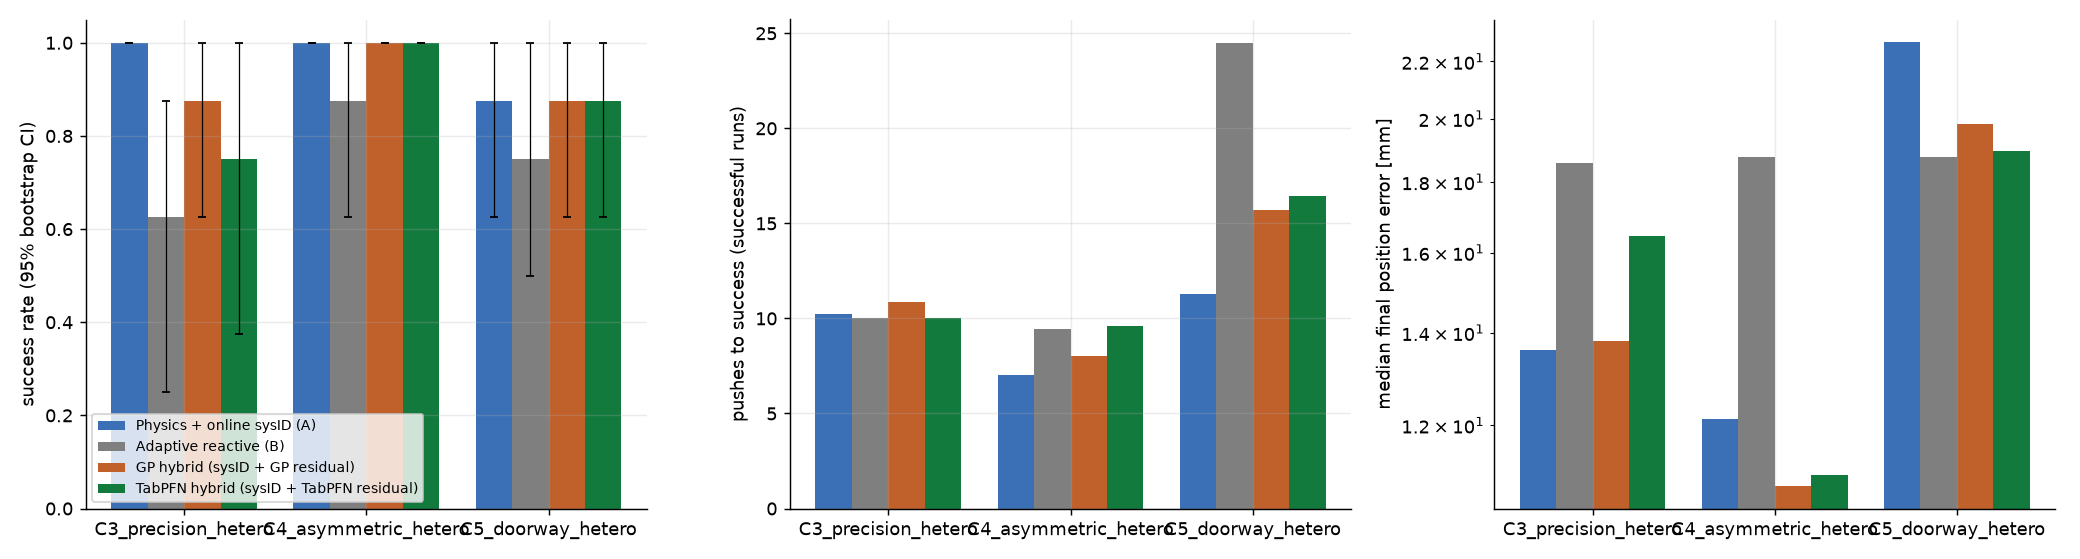
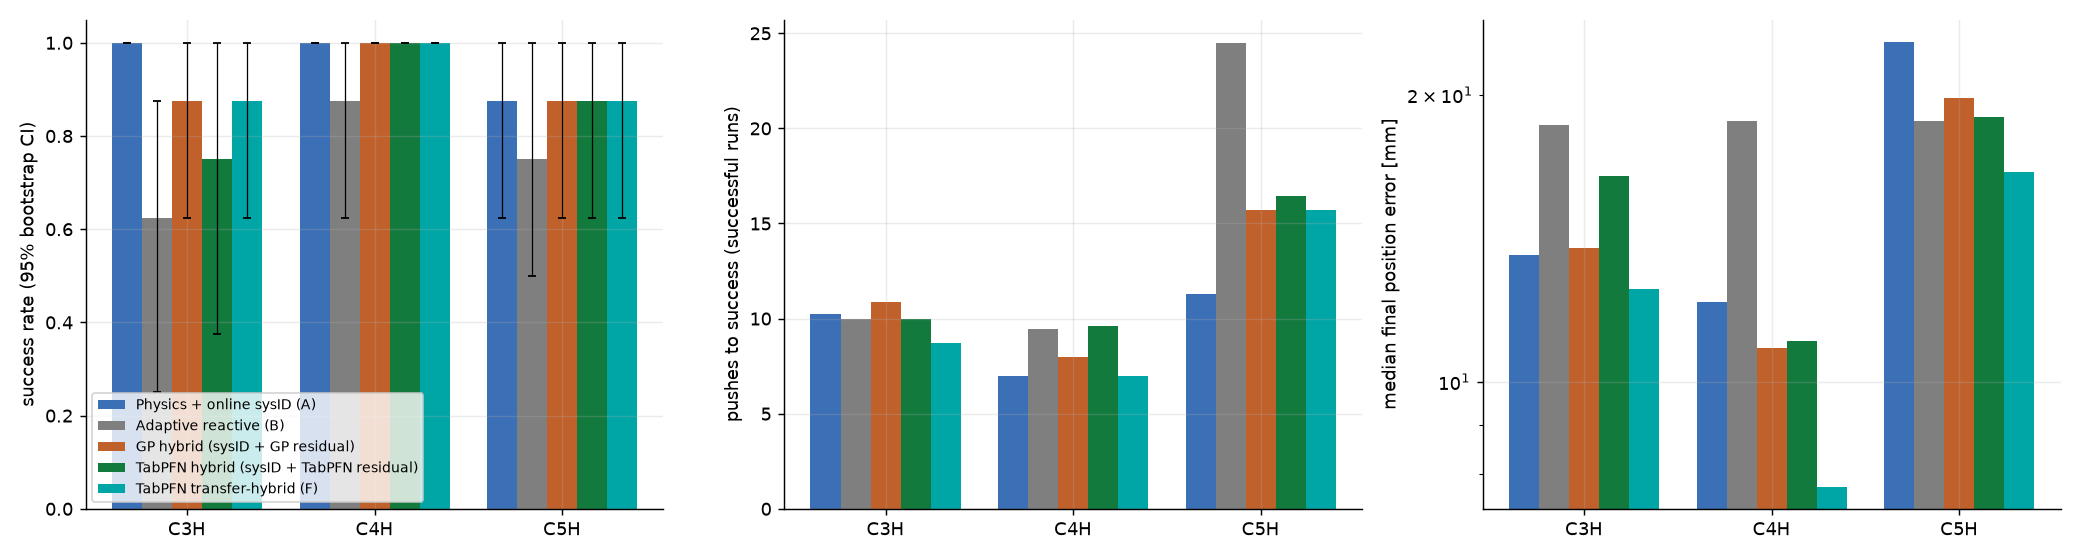
Closed-loop transfer results, figures

diff --git a/experiments/make_figures.py b/experiments/make_figures.py
@@ -137,7 +137,7 @@ def manip_figure(csv, out):
     for ax, lab in zip(axes, ["success rate (95% bootstrap CI)", "pushes to success (successful runs)",
                               "median final position error [mm]"]):
         ax.set_xticks(np.arange(len(chs)) + 0.4 - w / 2)
-        ax.set_xticklabels(chs)
+        ax.set_xticklabels([c.replace("_hetero", "H").split("_")[0] + ("H" if "hetero" in c else "") if False else c.split("_")[0] + ("H" if "hetero" in c else "") for c in chs])
         ax.set_ylabel(lab)
     axes[2].set_yscale("log")
     axes[0].legend(fontsize=7.5, loc="lower left")
@@ -195,8 +195,12 @@ def main():
         if t is not None:
             print(name)
             print(t.to_string(index=False))
-    for tag in ["v1", "v2", "hetero"]:
+    for tag in ["v2"]:
         manip_figure(RES / f"manip_{tag}.csv", FIG / f"manipulation_{tag}.png")
+    if (RES / "manip_hetero_transfer.csv").exists():
+        pd.concat([pd.read_csv(RES / "manip_hetero.csv"), pd.read_csv(RES / "manip_hetero_transfer.csv")]).to_csv(
+            RES / "manip_hetero_all.csv", index=False)
+        manip_figure(RES / "manip_hetero_all.csv", FIG / "manipulation_hetero.png")
     active_figure(RES / "active_htest.csv", FIG / "active_hetero.png")
     active_figure(RES / "active_test.csv", FIG / "active_standard.png")
     print("figures ->", FIG)

diff --git a/docs/REPORT.md b/docs/REPORT.md
@@ -231,9 +231,23 @@ pushes once per decision and composes it for lookahead. Closed-loop wall time pe
 
 ---
 
-## 6. Late results
+## 6. Closed-loop transfer (Challenge 7 in closed loop)
 
-(Appended as the remaining overnight runs finished — see bottom of the file.)
+TabPFN transfer-hybrid (context: 40 training objects × ≤8 pushes, heterogeneous regime) on the same
+24 heterogeneous task seeds (`results/manip_hetero_transfer.csv`, `results/manip_stats_hetero.csv`):
+
+| challenge | physics + sysID | TabPFN-hybrid | **TabPFN transfer-hybrid** |
+|---|---|---|---|
+| C3H precision | 100%, 10.3 pushes, 13.6 mm | 75%, 12.5, 16.4 mm | 88%, 10.1, **12.5 mm** |
+| C4H asymmetric | 100%, 7.0, 12.1 mm | 100%, 9.6, 11.0 mm | 100%, 7.0, **7.8 mm** |
+| C5H doorway | 88%, 14.9, 22.7 mm, 2.9 wall hits | 88%, 19.4, 19.0 mm, 6.8 | 88%, 18.8, **16.6 mm**, 4.1 |
+
+(success, mean pushes, median final position error). Paired vs physics + sysID (24 episodes):
+TabPFN-hybrid +3.1 pushes (p = 0.015); **TabPFN transfer-hybrid +1.25 pushes (p = 0.79), +0.4 wall
+contacts (p = 0.44)** — prior experience removes the significant closed-loop deficit of the single-object
+residual model and gives the most precise final placements, but does not beat physics + sysID on
+number of pushes. Cost: ≈45 s of CPU per decision (300-row context, 2 ensemble members × 3 outputs,
+shared CPU) vs 0.17 s for physics + sysID.
 
 ---
 
